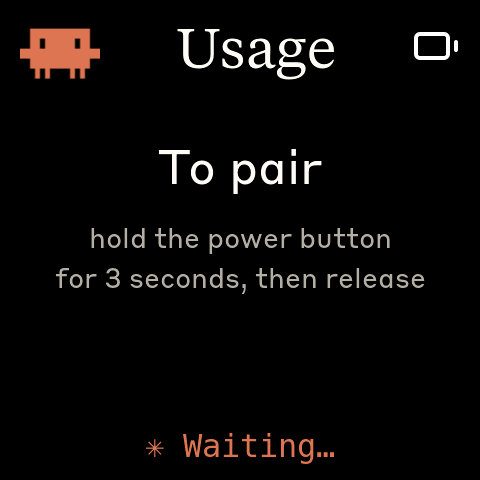
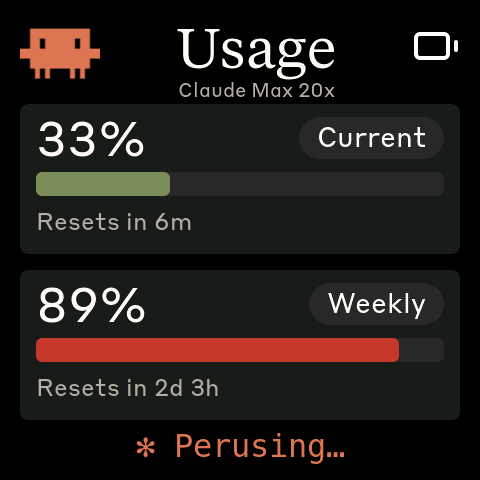
docs: real device screenshots of all tabs; drop capture junk
Replaces the upstream author's Claude-only screenshots with fresh captures from
the actual board (Waveshare AMOLED-2.16): Claude, Codex, Antigravity, System, and
Stats — all showing live multi-provider data. Removes .raw/.dims capture
intermediates from tracking and gitignores them.

diff --git a/README.md b/README.md
@@ -45,10 +45,17 @@ provider whose CLI isn't installed or logged in is simply omitted — the tabs t
 remain still work. A subtitle under each title shows the detected plan (e.g.
 "Claude Max 20x", "Codex Plus", "Gemini Models").
 
-|              Splash               |              Usage              |
-| :-------------------------------: | :-----------------------------: |
-| ![Splash](screenshots/splash.png) | ![Usage](screenshots/usage.png) |
-|   Splash; tap the logo anytime    | Per-provider session and weekly bars |
+Screens below are captured directly from the device (Waveshare AMOLED-2.16):
+
+|              Claude              |               Codex               |             Antigravity             |
+| :------------------------------: | :-------------------------------: | :---------------------------------: |
+| ![Claude](screenshots/claude.png) | ![Codex](screenshots/codex.png)  | ![Antigravity](screenshots/antigravity.png) |
+| 5-hour + weekly windows          | Weekly window + context gauge     | Gemini pool: 5-hour + weekly        |
+
+|               System                |               Stats               |              Splash               |
+| :---------------------------------: | :-------------------------------: | :-------------------------------: |
+| ![System](screenshots/system.png)   | ![Stats](screenshots/stats.png)   | ![Splash](screenshots/splash.png) |
+| Host CPU / GPU / RAM + temps        | Heatmap, tokens, model, streak    | Clawd animation; tap logo to toggle |
 
 While the splash is up, the middle (PWR) button cycles animations, and the tab
 buttons/brightness controls still apply. **Hold the power button for 3 seconds, then release, to put the device into pairing mode** — this clears the saved Bluetooth bond and re-advertises. The firmware also auto-rotates animations every 20 s within the current usage-rate group, so a long stretch on the splash isn't just one Clawd on loop.